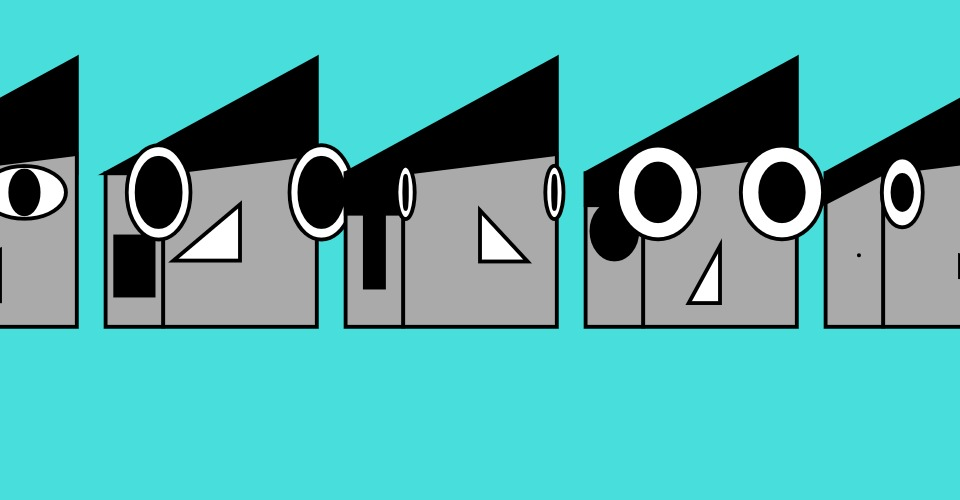
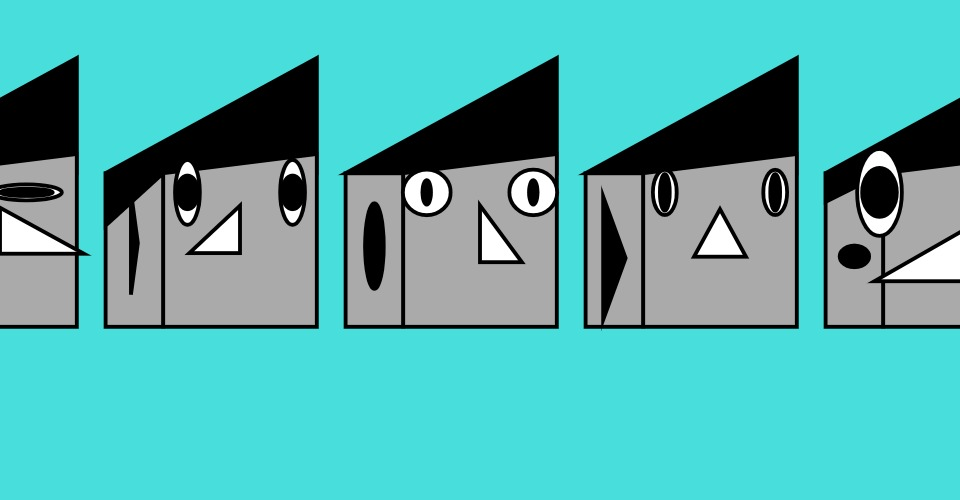
fixed triangle ear

diff --git a/face_code.js b/face_code.js
@@ -30,7 +30,7 @@ const minEarY=-1;
 const maxEarY=1;
 const earShapes=["circle","triangle","square"];
 const minInnerEarWidth=0.1;
-const maxInnerEarWidth=0.8;
+const maxInnerEarWidth=0.6;
 const minInnerEarHeight=.1;
 const maxInnerEarHeight=0.9;
 
@@ -119,7 +119,9 @@ class Face{
       rect(-this.headWidth/2-this.earWidth/2,this.earY,this.innerEarWidth,this.innerEarHeight);
     }
     else if(this.earShape=="triangle"){
-      triangle(-this.headWidth/2-this.earWidth/2-this.innerEyeWidth/2,this.EarY-this.innerEarHeight/2,-this.headWidth/2-this.earWidth/2-this.innerEyeWidth/2,this.EarY+this.innerEarHeight/2,-this.headWidth/2-this.earWidth/2+this.innerEyeWidth/2,this.earY);
+      triangle(-this.headWidth/2-this.earWidth/2-this.innerEarWidth/2,this.earY-this.innerEarHeight/2,
+      -this.headWidth/2-this.earWidth/2-this.innerEarWidth/2,this.earY+this.innerEarHeight/2,
+      -this.headWidth/2-this.earWidth/2+this.innerEarWidth/2,this.earY);
     }
   }
   drawMouth(){

diff --git a/README.md b/README.md
@@ -1,1 +1,1 @@
-I have added the ear to the face. I don't like the coluor and thing it will look better without a fill. I also think I need to work on reparametersiing it so the ranges of some of the values aren't so extreme and even potentially limit it so that the sideburn can't cover the ear hole and the hole is centred in the space below the side burn. Also the triangle ear just doesn't work atm which needs fixing. 
+I have fixed the ear triangle so it draws properly. When the height of the inner ear gets too big the inner ear sticks into the hair and even somtimes out the top or bottom of the face which means the range needs significantly adjusting. I also think having the inner ear without a fill is the way to go.  
